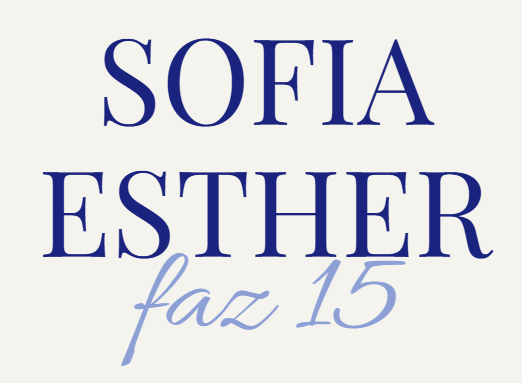
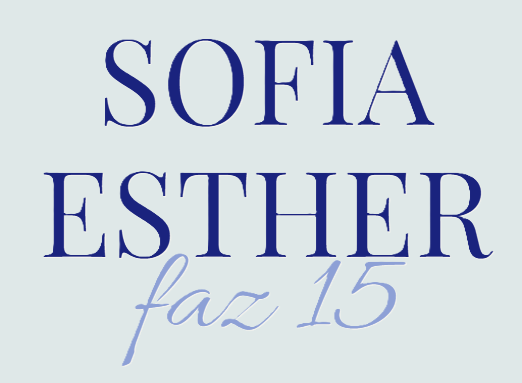
image opengraphy

diff --git a/src/app/layout.tsx b/src/app/layout.tsx
@@ -67,11 +67,22 @@ export const metadata: Metadata = {
     default: "Sofia Esther 15 anos",
     template: "%s | Meu Site",
   },
-  description: "Generated by create next app",
+  description: "Convite de 15 anos da Sofia Esther",
   openGraph: {
     title: "Sofia Esther 15 anos",
-    description: "Generated by create next app",
+    description: "Você está convidado para a celebração!",
+    url: "https://sofiaesther15anos.netlify.app",
+    images: [
+      {
+        url: "https://sofiaesther15anos.netlify.app/opengraphy.png?v=3",
+        width: 1200,
+        height: 630,
+        alt: "Convite Sofia Esther 15 anos",
+      },
+    ],
+    type: "website",
   },
+  
   icons: {
     icon: "/favicon.png",
   }
